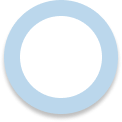
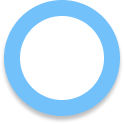
update exercise page

diff --git a/exercise.html b/exercise.html
@@ -67,11 +67,15 @@
             <div class="standar-goal-background">
               <div class="standar-goal-box">
                 <div>
-                  <img id="el1" src="/images/ellipse.png" alt="1" />
+                  <img id="el1" src="/images/ellipse.png" alt="ellipse" />
                 </div>
 
                 <div>
-                  <img id="activity" src="/images/activity.png" alt="2" />
+                  <img
+                    id="activity"
+                    src="/images/activity.png"
+                    alt="activity"
+                  />
                 </div>
                 <div id="stand_goal">
                   <p>
@@ -86,35 +90,63 @@
               </div>
             </div>
 
-            <div>
-              <div class="exercise-length-goal">
-                <div class="exercise-length-goal-box">
-                  <div>
-                    <img id="el1" src="/images/ellipse.png" alt="1" />
+            <div class="exercise-length-goal">
+              <div class="exercise-length-goal-box">
+                <div>
+                  <img id="el1" src="/images/ellipse1.png" alt="1" />
+                </div>
+
+                <div>
+                  <img id="activity" src="/images/activity.png" alt="2" />
+                </div>
+                <div id="length_goal">
+                  <p>
+                    Excercise <br />
+                    Length <br />
+                    Goal
+                  </p>
+                </div>
+
+                <div id="_45min_100">
+                  <p>45 mins<br />100%</p>
+                </div>
+              </div>
+            </div>
+
+            <div class="calories-equivalent">
+              <div class="calories-equivalent-background">
+                <div id="equivalent">
+                  <p>Calories Burned Equivalent To</p>
+
+                  <div id="d1">
+                    <img src="/images/oats.png" alt="" />
+                    <h6>Quaker Oats Insant Oatmeal 8oz</h6>
+                    <h5>200 cal</h5>
                   </div>
 
-                  <div>
-                    <img id="activity" src="/images/activity.png" alt="2" />
-                  </div>
-                  <div id="stand_goal">
-                    <p>
-                      Stand <br />
-                      Goal
-                    </p>
+                  <!-- <div style="height: 4px"></div> -->
+
+                  <div id="d2">
+                    <br />
+                    <br />
                   </div>
 
-                  <div id="_6_hrs_70_">
-                    <p>6 hrs<br />70%</p>
+                  <div style="height: 4px"></div>
+
+                  <div id="d3">
+                    <br />
+                    <br />
                   </div>
                 </div>
               </div>
-              <div>4</div>
             </div>
           </div>
+        </div>
 
-          <!-- <div class="row">
-
-          </div> -->
+        <div class="adjust-button">
+          <div>
+            <button id="button">Adjust Goal</button>
+          </div>
         </div>
       </div>
     </main>

diff --git a/index.css b/index.css
@@ -297,12 +297,10 @@ footer {
     position:relative;
     top:3vh;
     left: 1vh;
-    z-index: 1;
 }
 
 #_6_hrs_70_ p {
     position: relative;
-    text-align: right;
     margin-left: 65%;
 	overflow: hidden;
 	font-size: 18px;
@@ -320,15 +318,83 @@ footer {
 	text-align: left;
 }
 
+
 .exercise-length-goal {
     background-color: rgb(255, 255, 255);
 }
 
 .exercise-length-goal-box {
-    width: 110%;
-    background-color: rgb(243, 242, 242);
+    margin-left: 5%;
+    width: 100%;
+    background-color: rgba(247.56,247.56,247.56,1);
 }
 
+#length_goal p {
+    position: relative;
+    margin-top: -60%;
+    margin-left: -10%;
+	width: 100%;
+	height: 50%;
+	overflow: hidden;
+	font-size: 15px;
+	text-align: center;
+}
+
+#_45min_100 p {
+    position: relative;
+    margin-left: 55%;
+	overflow: hidden;
+	font-size: 18px;
+	text-align: center;
+}
+
+
+.adjust-button {
+    margin-top: 3%;
+    margin-left: 30%;
+}
+
+.adjust-button #button {
+    border: none;
+    background-color: rgb(165, 204, 238);
+    font-size: 20px;
+    padding: 3%;
+    padding-left: 10%;
+    padding-right: 10%;
+    border-radius: 3vw;
+}
+
+.calories-equivalent {
+    background-color: rgba(247.56,247.56,247.56,1);
+}
+
+#equivalent p {
+    font-size: 12px;
+    font-weight: 700;
+}
+
+#equivalent h6 {
+    margin-top: -22%;
+    margin-left: 33%;
+    font-size: 12px;
+}
+
+#equivalent h5 {
+    font-weight: 400;
+    text-align: right;
+    margin-right: 5%;
+    margin-top: -3%;
+    font-size: 14px;
+    padding-bottom: 5%;
+}
+
+#equivalent img {
+    margin-top: 4%;
+}
+
+#d1, #d2, #d3 {
+    background-color: rgb(222, 222, 223);
+}
 
 
 /* bmi */
@@ -364,12 +430,8 @@ footer {
     --bs-btn-active-color: var(--bs-btn-hover-color) !important;
     --bs-btn-active-bg: rgba(203, 226, 242, 0.4) !important;
     --bs-btn-active-border-color: rgba(203, 226, 242, 0.4) !important;
-<<<<<<< Updated upstream
 }
 
 .alert {
     --bs-alert-border: 1px solid #000000 !important;
 }
-=======
-  }
->>>>>>> Stashed changes
